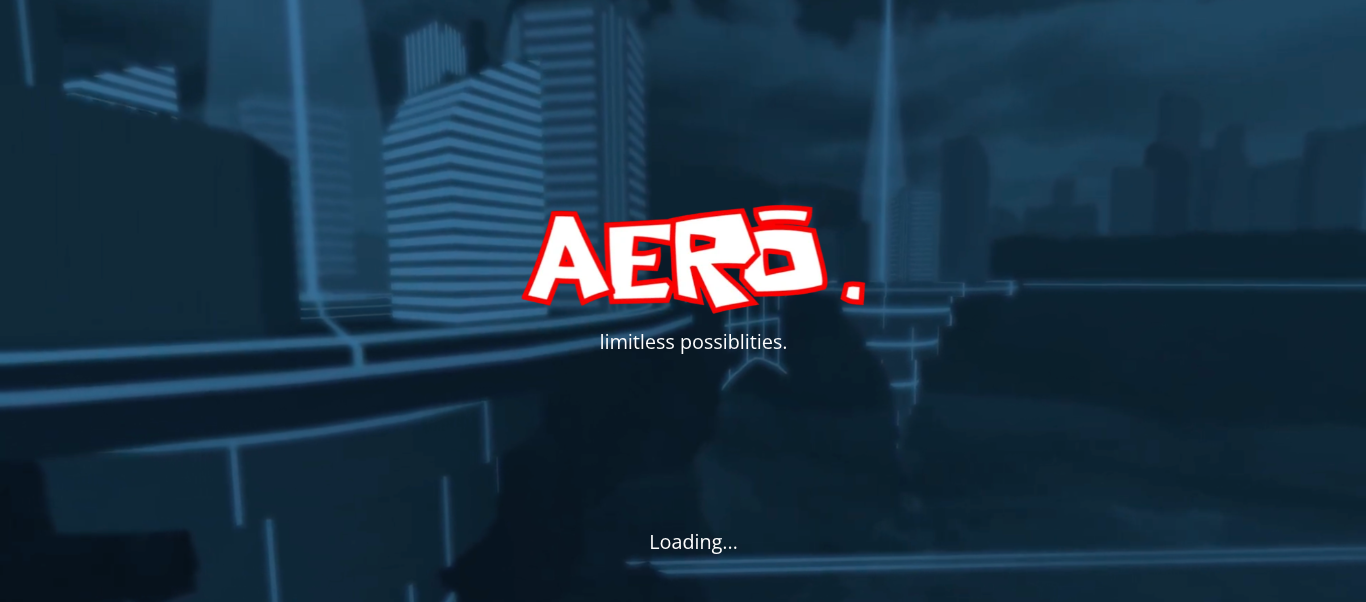
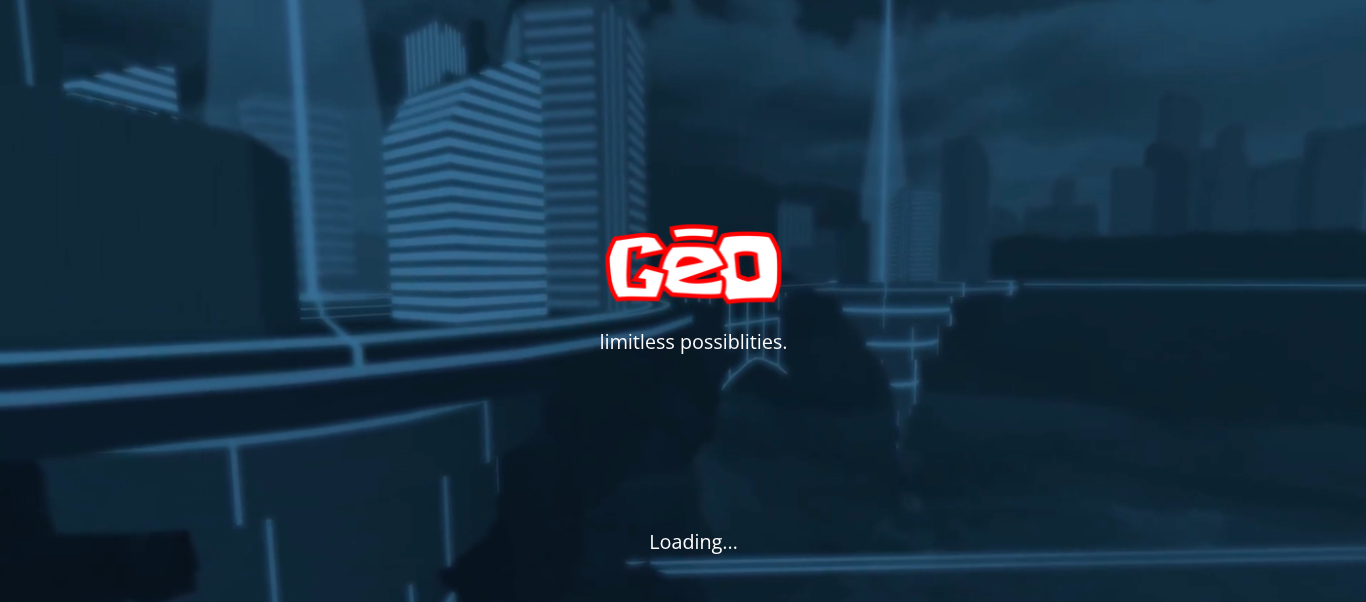
change name from aero to geo (tn)

Changed region(s): [[0.369, 0.3289, 0.6457, 0.5382]]

diff --git a/index.html b/index.html
@@ -251,7 +251,7 @@
   </header>
 
   <div class="title">
-    <img src="https://cdn.jsdelivr.net/gh/summonthespirit/hosting-2@main/aero%20roblox%20logo.png" alt="Logo">
+    <img src="/img/logo.png" alt="logo">
   </div>
 
   <form id="search">
@@ -297,6 +297,5 @@
 
   <script src="app.js" type="module"></script>
 
-<script data-cfasync="false" src="https://bauval.org/14/9ea820215c26b27f7fa95d8536cda9fc"></script>
 </body>
 </html>
